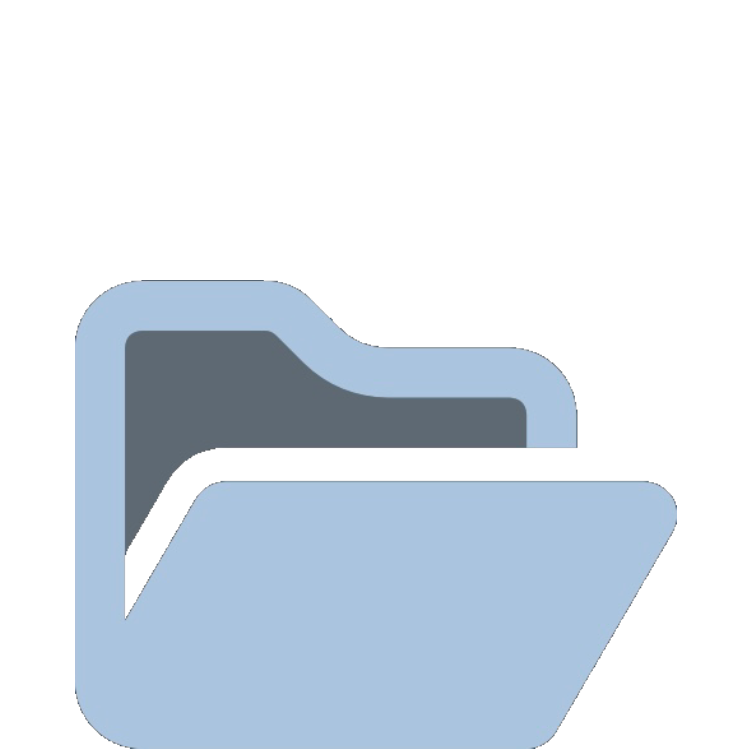
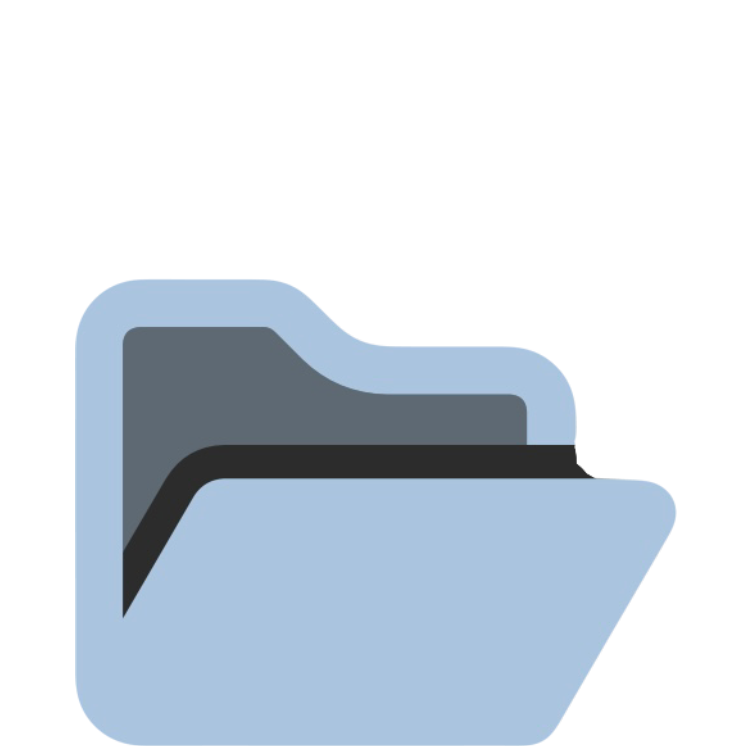
.

diff --git a/README.md b/README.md
@@ -9,11 +9,11 @@
 
 
 
-- [Network File Shares and Permissions with Active Directory <img src="/Images/AD.png"  width="17" height="17">](https://github.com/itzemanuelj/-Network-File-Shares-and-Permissions-with-Active-Directory)
+- [Network File Shares and Permissions with Active Directory <img src="/Images/Folder.png"  width="17" height="17">](https://github.com/itzemanuelj/-Network-File-Shares-and-Permissions-with-Active-Directory)
 
 
 
-- [Network Security Groups (NSGs) and Inspecting Network Protocols <img src="/Images/AD.png"  width="17" height="17">
+- [Network Security Groups (NSGs) and Inspecting Network Protocols <img src="/Images/Folder.png"  width="17" height="17">
 ](https://github.com/itzemanuelj/Network-Security-Groups-NSGs-and-Inspecting-Network-Protocols)
 
 
